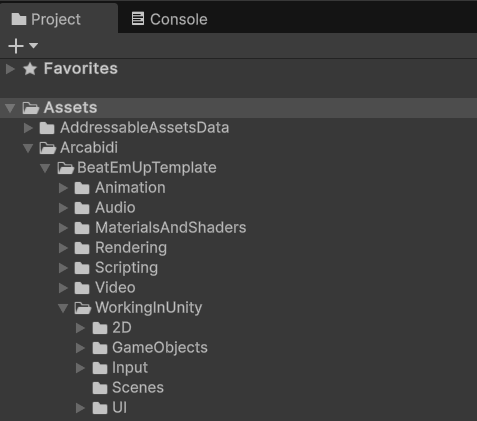
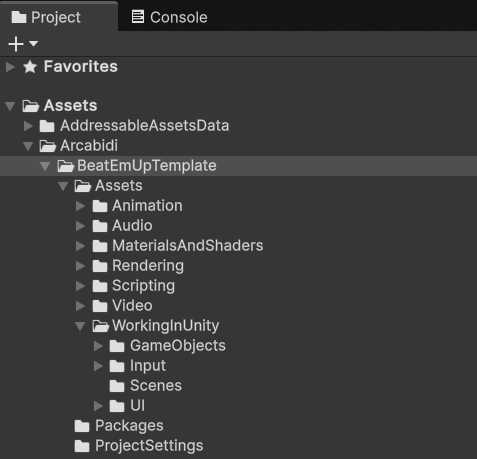
Added BeatEmUpTemplate subfolders

Changed region(s): [[0.0, 0.2162, 0.5577, 0.9881], [0.0, 0.0, 1.0, 0.0926], [0.0, 0.0926, 0.2642, 0.1853]]

diff --git a/docs/unity-editor.md b/docs/unity-editor.md
@@ -15,8 +15,9 @@ The [Project window](https://docs.unity3d.com/Manual/ProjectView.html) is locate
 | <div style="width:180px" /> Folder Name | Description                          |
 | ---------------: | :----------------------------------- |
 | `AddressableAssetsData`            | A folder that is automatically created when you install the Addressables package from the Unity Package Manager.<br><br>This folder contains all the settings files for managing Addressables, which help you organize and package content for your application as well as load and release assets at runtime.<br><br>See the [Assets](assets.md#addressableassetsdata-folder) page for more information. |
-| `Arcabidi`            |  The company folder for all products created by Arcabidi. This folder exists to separate your project related files from any other folders created when you install or update external packages. |
-| `BeatEmUpTemplate`            | The main folder for all files related to the 2.5D Beat 'Em Up Template. Its subfolders are named after sections from the online [Unity 6 User Manual](https://docs.unity3d.com/6000.0/Documentation/Manual/UnityManual.html) to allow quick references to official documentation. |
+| `Arcabidi`            |  The company folder for all products created by Arcabidi. |
+| `BeatEmUpTemplate`            | The main folder for all files related to the 2.5D Beat 'Em Up Template. |
+| `Assets`            | Contains all assets related to the 2.5D Beat 'Em Up Template. Its subfolders are named after sections from the online [Unity 6 User Manual](https://docs.unity3d.com/6000.0/Documentation/Manual/UnityManual.html) to allow quick references to official documentation.  |
 | `Animation`            | Contains all non-code files related to animation. See the [Animation](scripting/systems/animation.md#animation-folder) page for more information. |
 | `Audio`            | Contains all non-code files related to audio. See the [Audio](scripting/systems/audio.md#audio-folder) page for more information. |
 | `MaterialsAndShaders`            | Contains all non-code files related to how surfaces are rendered. See the [Materials](https://docs.unity3d.com/Manual/Materials.html) and [Textures](https://docs.unity3d.com/Manual/Textures-landing.html) pages in the Unity 6 User Manual for more information. |
@@ -29,6 +30,8 @@ The [Project window](https://docs.unity3d.com/Manual/ProjectView.html) is locate
 | `Input`            | Contains all non-code files related to input. See the [Input](scripting/systems/input.md#input-folder) page for more information.|
 | `Scenes`            | Contains all non-code files related to scenes. See the [Scenes](scenes.md) page for more information. |
 | `UI`            | Contains all non-code files related to UI. See the [User Interface](scripting/systems/user-interface.md#ui-folder) page for more information.|
+| `Packages`            | Contains a`manifest.json` file that lists all package dependencies in the 2.5D Beat 'Em Up Template for reference. |
+| `ProjectSettings`            | Contains all [project settings](https://docs.unity3d.com/Manual/comp-ManagerGroup.html) for the 2.5D Beat 'Em Up Template:<br><br>`DynamicsManager` configures [physics collision matrices](https://docs.unity3d.com/Manual/LayerBasedCollision.html).<br>`GraphicsSettings` sets the [default render pipeline](https://docs.unity3d.com/Manual/class-GraphicsSettings.html#:~:text=Always%2Dincluded%20Shaders-,Set%20Default%20Render%20Pipeline%20Asset,-Use%20the%20Default).<br>`QualitySettings` sets the [render pipeline asset](https://docs.unity3d.com/Manual/class-QualitySettings.html#:~:text=Meshes-,Rendering,-Property).<br>`TagManager` defines [tags and layers](https://docs.unity3d.com/Manual/class-TagManager.html).<br><br>It is recommended to import this package to a clean Unity project to prevent overwriting any existing project settings. After creating one, copy these files to the `[Your Project]/ProjectSettings` folder to overwrite the default project settings. |
 
 ## Hierarchy window
 

diff --git a/docs/assets.md b/docs/assets.md
@@ -33,7 +33,7 @@ The [Addressables package](https://docs.unity3d.com/Packages/com.unity.addressab
 
 Once it is installed the second step is to mark all Addressable content in the project. Any content marked this way can be dynamically loaded or unloaded at runtime.<br>
 <br>
-This is done by selecting an asset in the Project window and checking the now available Addressable box in the Inspector. In the example below the Persistent scene has been marked as an Addressable asset. You can find it at `BeatEmUpTemplate/WorkingInUnity/Scenes`.<br>
+This is done by selecting an asset in the Project window and checking the now available Addressable box in the Inspector. In the example below the Persistent scene has been marked as an Addressable asset. You can find it at `BeatEmUpTemplate/Assets/WorkingInUnity/Scenes`.<br>
 <br>
 <figure markdown="span">
     ![addressables_package_2.png](assets/images/addressables_package_2.png)

diff --git a/docs/scripting/systems/animation.md b/docs/scripting/systems/animation.md
@@ -18,7 +18,7 @@ This project uses Unity's default built-in animation system, known as the [Mecan
 
 ## Animation folder
 
-The non-code files in this section are at `BeatEmUpTemplate/Animation`.
+The non-code files in this section are at `BeatEmUpTemplate/Assets/Animation`.
 
 <figure markdown="span">
     ![animation_animation_folder.png](../../assets/images/animation_animation_folder.png)
@@ -46,7 +46,7 @@ The non-code files in this section are in the `MecanimAnimation` subfolder.
 
 ## Scripting folder
 
-The code files in this section are at `BeatEmUpTemplate/Scripting/Systems/08 - Animation`.
+The code files in this section are at `BeatEmUpTemplate/Assets/Scripting/Systems/08 - Animation`.
 
 <figure markdown="span">
     ![animation_scripting.png](../../assets/images/animation_scripting.png)

diff --git a/docs/scripting/systems/input.md b/docs/scripting/systems/input.md
@@ -30,7 +30,7 @@ In 2020 Unity released a new input system called the [Input System package](http
 
 ## Input folder
 
-The non-code files in this section are at `BeatEmUpTemplate/WorkingInUnity/Input`.
+The non-code files in this section are at `BeatEmUpTemplate/Assets/WorkingInUnity/Input`.
 
 <figure markdown="span">
     ![input_input_folder.png](../../assets/images/input_input_folder.png)
@@ -58,7 +58,7 @@ The non-code files in this section are in the `InputSystem` subfolder.
 
 ## Scripting
 
-The code files in this section are at `BeatEmUpTemplate/Scripting/Systems/03 - Input`.
+The code files in this section are at `BeatEmUpTemplate/Assets/Scripting/Systems/03 - Input`.
 
 <figure markdown="span">
     ![input_scripting.png](../../assets/images/input_scripting.png)

diff --git a/docs/scripting/systems/user-interface.md b/docs/scripting/systems/user-interface.md
@@ -36,7 +36,7 @@ To change this we have created our own [custom CursorController](#cursorcontroll
 
 ## UI folder
 
-The non-code files in this section are at `BeatEmUpTemplate/WorkingInUnity/UI`.
+The non-code files in this section are at `BeatEmUpTemplate/Assets/WorkingInUnity/UI`.
 
 <figure markdown="span">
     ![ui_ui_folder.png](../../assets/images/ui_ui_folder.png)
@@ -90,7 +90,7 @@ VisualTrees representing entire scenes are referenced by the [UIDocument](https:
 
 ## Scripting
 
-The code files in this section are at `BeatEmUpTemplate/Scripting/Systems/04 - UI`.
+The code files in this section are at `BeatEmUpTemplate/Assets/Scripting/Systems/04 - UI`.
 
 <figure markdown="span">
     ![ui_scripting.png](../../assets/images/ui_scripting.png)

diff --git a/docs/scripting/systems/audio.md b/docs/scripting/systems/audio.md
@@ -6,7 +6,7 @@
 
 ## Audio folder
 
-The non-code files in this section are located at `BeatEmUpTemplate/Audio`.
+The non-code files in this section are located at `BeatEmUpTemplate/Assets/Audio`.
 
 <figure markdown="span">
     ![audio_audio_folder.png](../../assets/images/audio_audio_folder.png)
@@ -16,7 +16,7 @@ Each subfolder is named after the source of the [AudioClips](https://docs.unity3
 
 ## Scripting
 
-The code files in this section are at `BeatEmUpTemplate/Scripting/Systems/05 - Audio`.
+The code files in this section are at `BeatEmUpTemplate/Assets/Scripting/Systems/05 - Audio`.
 
 <figure markdown="span">
     ![audio_scripting.png](../../assets/images/audio_scripting.png)

diff --git a/docs/scenes.md b/docs/scenes.md
@@ -26,7 +26,7 @@ Initialization --> Persistent
 Persistent --> Loaded/Unloaded
 ```
 
-All [scene](https://docs.unity3d.com/Manual/CreatingScenes.html) files are located at `BeatEmUpTemplate/WorkingInUnity/Scenes`.
+All [scene](https://docs.unity3d.com/Manual/CreatingScenes.html) files are located at `BeatEmUpTemplate/Assets/WorkingInUnity/Scenes`.
 
 | <div style="width:160px" /> Scene Name | Description                          |
 | ---------------: | :----------------------------------- |

diff --git a/docs/scripting/systems/player.md b/docs/scripting/systems/player.md
@@ -20,7 +20,7 @@ For this template we have opted not to use Unity's default Player Input Manager 
 
 ## Scripting
 
-The code files in this section are at `BeatEmUpTemplate/Scripting/Systems/02 - Player`.
+The code files in this section are at `BeatEmUpTemplate/Assets/Scripting/Systems/02 - Player`.
 
 <figure markdown="span">
     ![player_scripting.png](../../assets/images/player_scripting.png)

diff --git a/docs/scripting/systems/environment.md b/docs/scripting/systems/environment.md
@@ -6,7 +6,7 @@
 
 ## Scripting
 
-The code files in this section are at `BeatEmUpTemplate/Scripting/Systems/06 - Environment`.
+The code files in this section are at `BeatEmUpTemplate/Assets/Scripting/Systems/06 - Environment`.
 
 <figure markdown="span">
     ![environment_scripting.png](../../assets/images/environment_scripting.png)

diff --git a/docs/scripting/index.md b/docs/scripting/index.md
@@ -12,7 +12,7 @@
 
 ### Folders
 
-All code in the project is located at `BeatEmUpTemplate/Scripting`.
+All code in the project is located at `BeatEmUpTemplate/Assets/Scripting`.
 
 | <div style="width:180px" /> Folder Name | Description                          |
 | ---------------: | :----------------------------------- |

diff --git a/docs/scripting/systems/command.md b/docs/scripting/systems/command.md
@@ -6,7 +6,7 @@
 
 ## Scripting
 
-The code files in this section are at `BeatEmUpTemplate/Scripting/Systems/10 - Command`.
+The code files in this section are at `BeatEmUpTemplate/Assets/Scripting/Systems/10 - Command`.
 
 <figure markdown="span">
     ![command_scripting.png](../../assets/images/command_scripting.png)

diff --git a/docs/scripting/systems/action.md b/docs/scripting/systems/action.md
@@ -6,7 +6,7 @@
 
 ## Scripting
 
-The code files in this section are at `BeatEmUpTemplate/Scripting/Systems/09 - Action`.
+The code files in this section are at `BeatEmUpTemplate/Assets/Scripting/Systems/09 - Action`.
 
 <figure markdown="span">
     ![action_scripting.png](../../assets/images/action_scripting.png)
